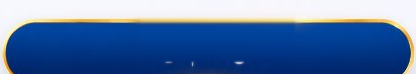
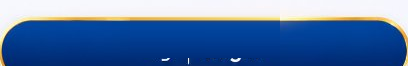
fix(mobile): eliminate duplicated secure badge and clean button edges

diff --git a/attendance/mobile/src/screens/LoginScreen.tsx b/attendance/mobile/src/screens/LoginScreen.tsx
@@ -193,8 +193,8 @@ export default function LoginScreen() {
       {/* Translucent status bar: allows the top metallic wave to flow behind the system clock & icons naturally */}
       <StatusBar style="light" />
 
-      {/* Decorative Bottom Wave Fixed Background */}
-      <View style={[styles.bottomFooterContainer, { height: SCREEN_WIDTH * (180 / 472) }]} pointerEvents="none">
+      {/* Decorative Bottom Wave Fixed Background (Wave only, no duplicated badge) */}
+      <View style={[styles.bottomFooterContainer, { height: SCREEN_WIDTH * (154 / 472) }]} pointerEvents="none">
         <Image
           source={BOT_FOOTER_IMAGE}
           style={styles.bottomFooterImage}
